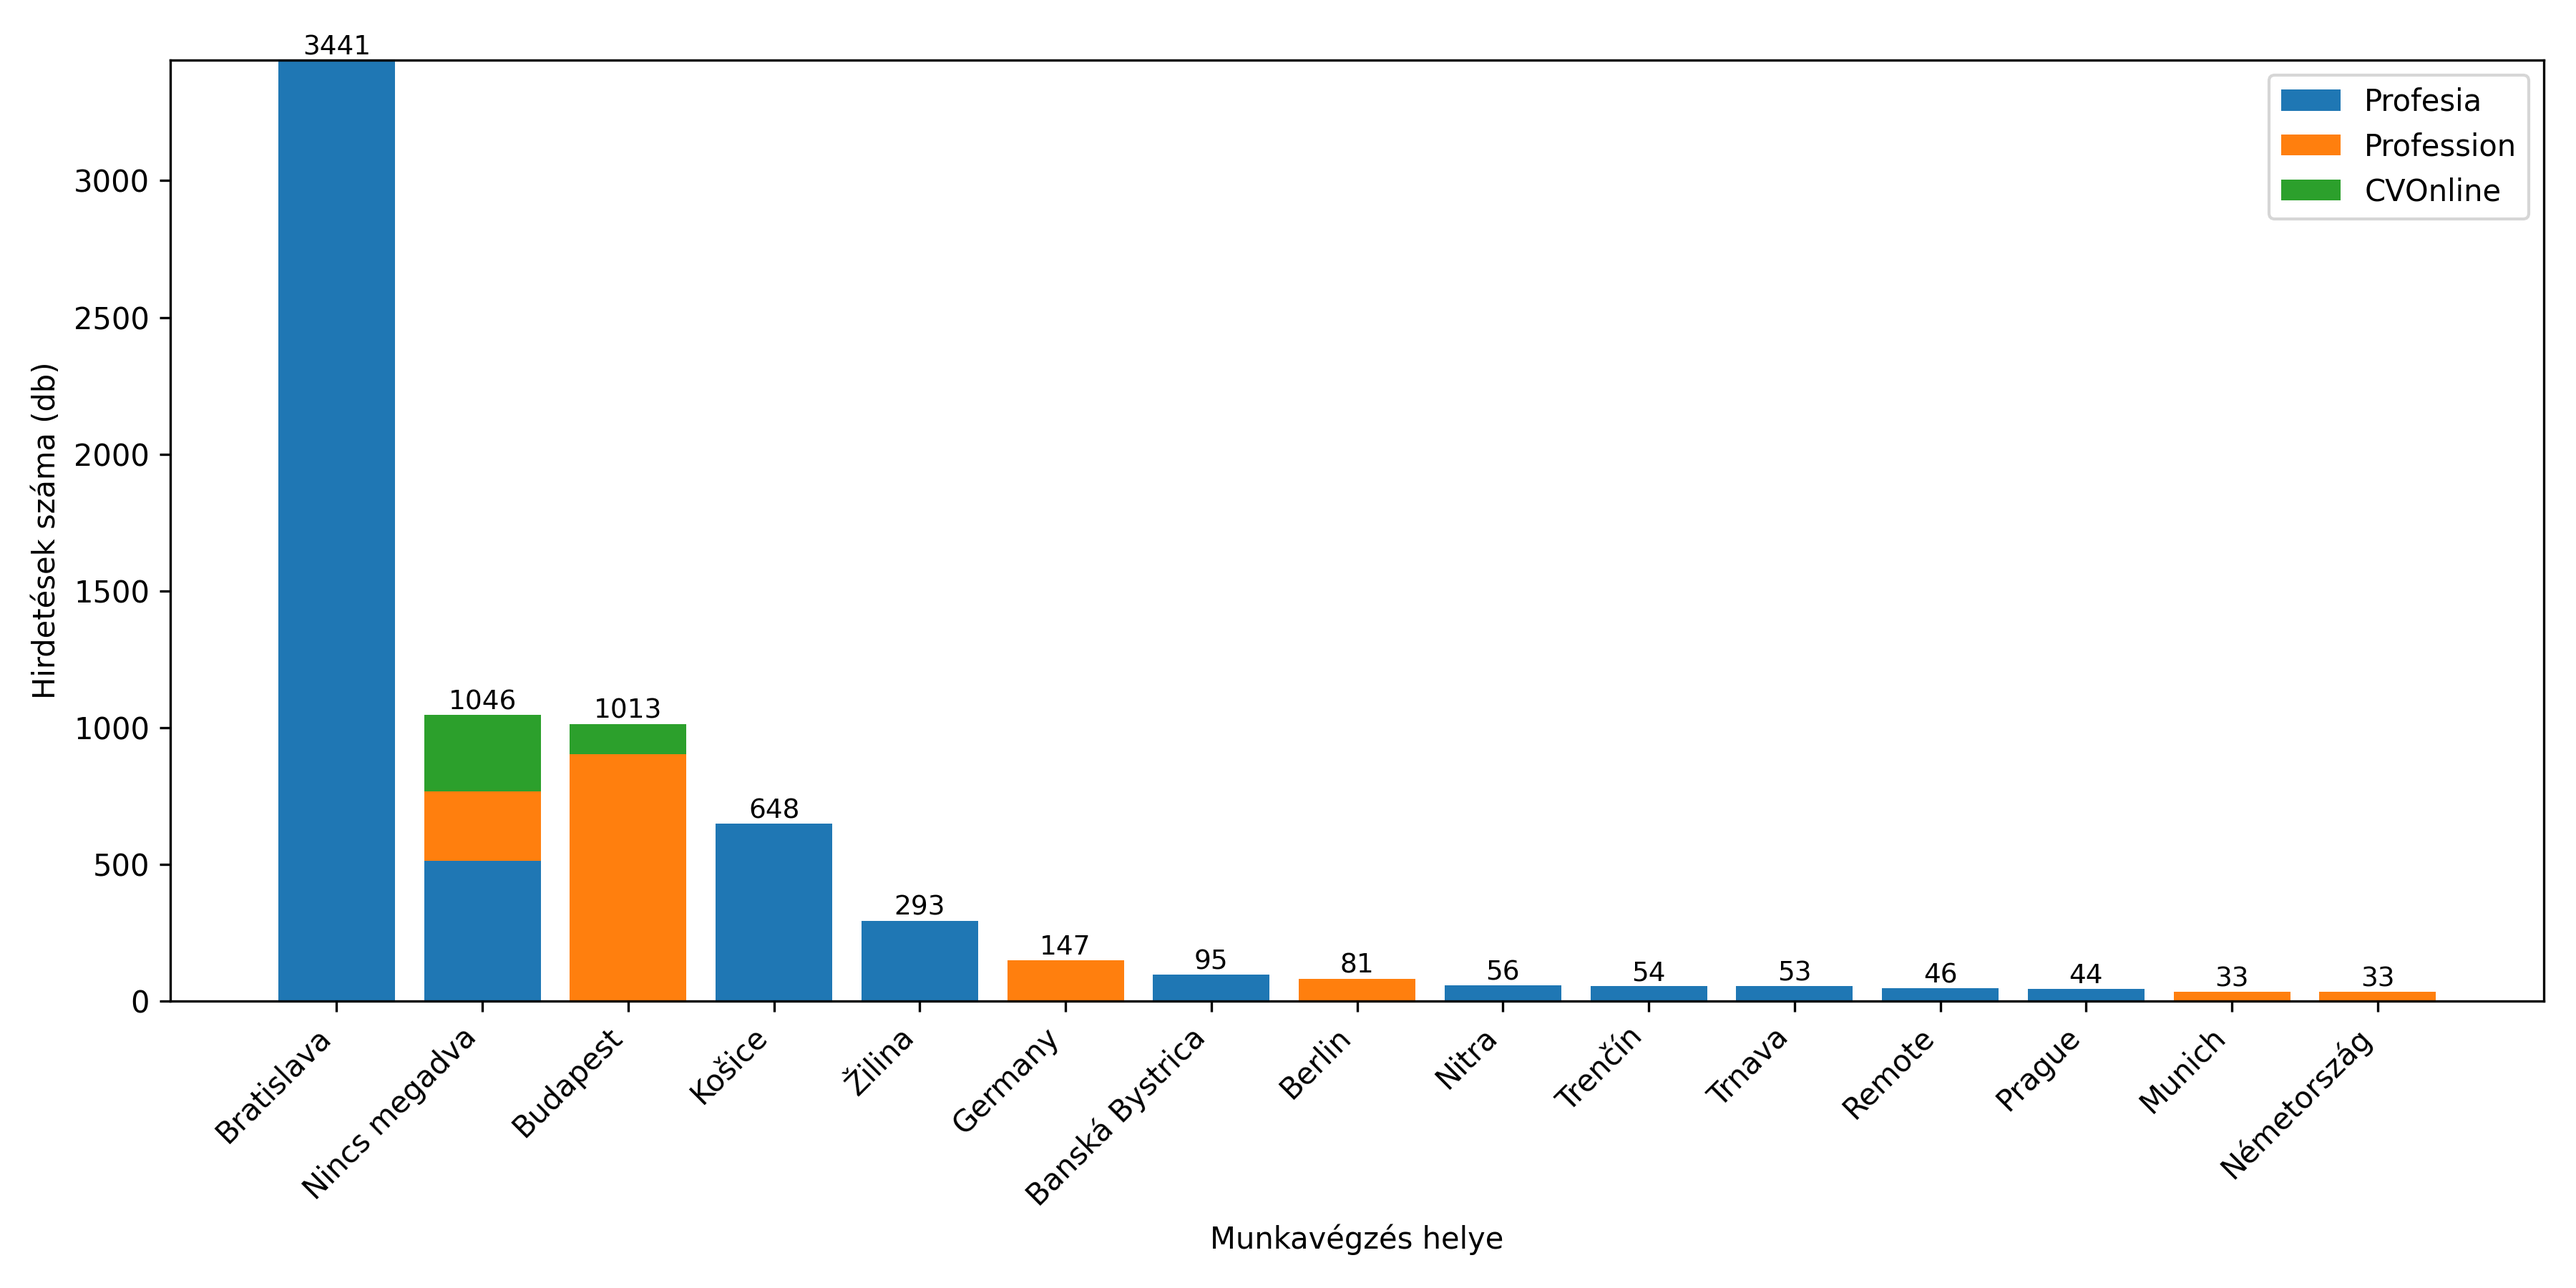
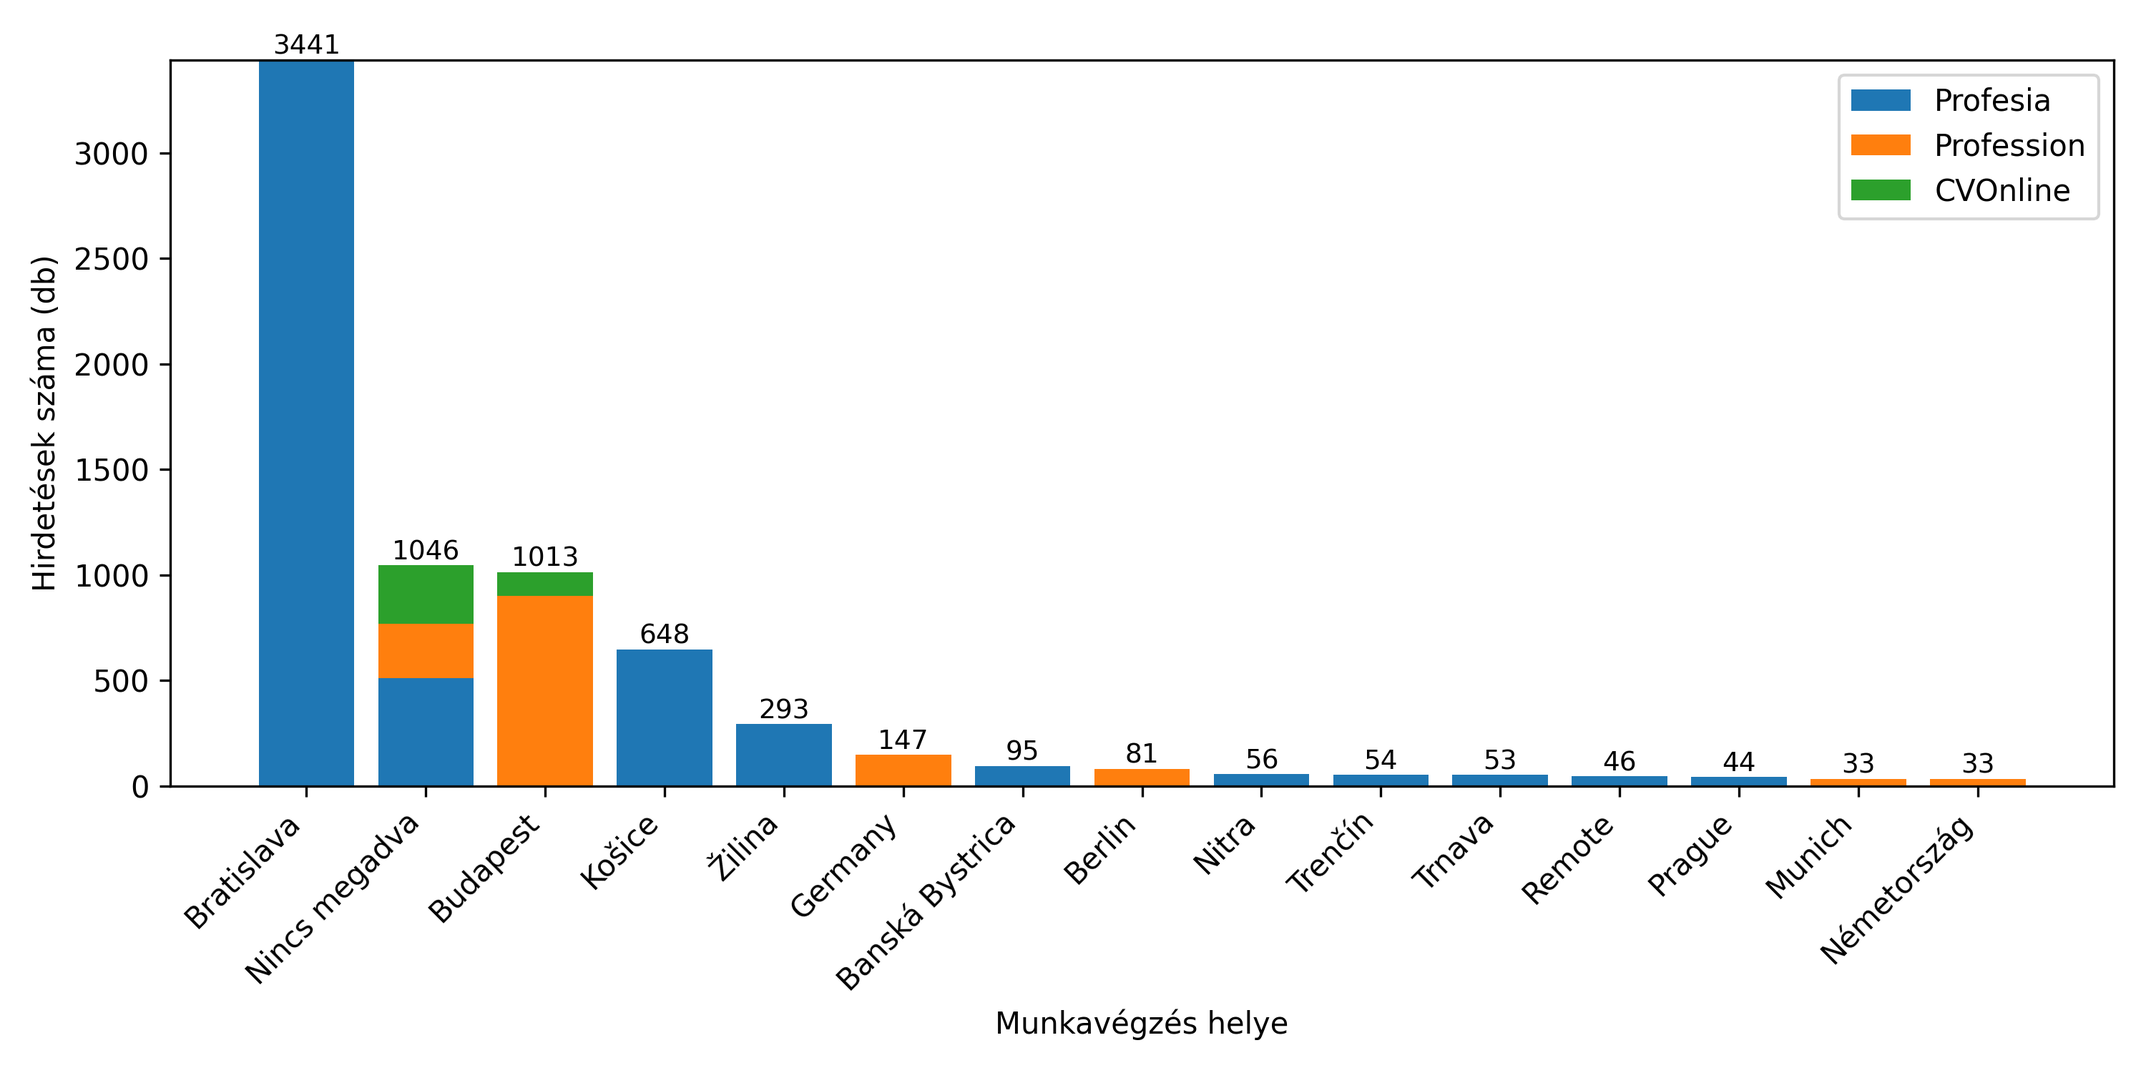
V2.2

Changed region(s): [[0.0, 0.0307, 0.992, 0.92], [0.465, 0.9507, 0.589, 0.9813], [0.062, 0.8587, 0.093, 0.8893]]

diff --git a/Analyze/Analyzer.py b/Analyze/Analyzer.py
@@ -78,7 +78,7 @@ def make_stacked_chart(df_counts, label_col, xlabel, filename, top_n=10):
 
     x = range(len(data))
 
-    plt.figure(figsize=(12, 6))
+    plt.figure(figsize=(10, 5))
     plt.bar(x, data["Profesia"], label="Profesia", color="#1f77b4")
     plt.bar(
         x,
